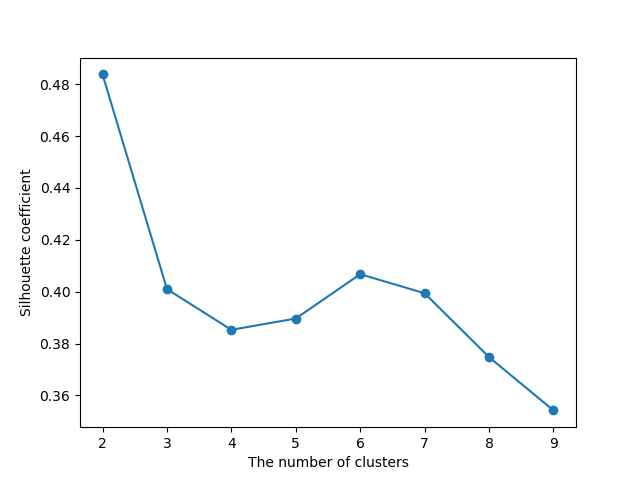
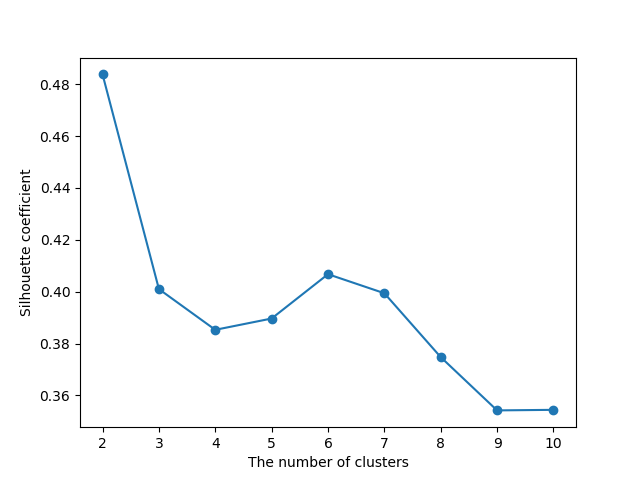
修改了一些bug并实现了计算SSE

diff --git a/cluster/kmeans.py b/cluster/kmeans.py
@@ -10,6 +10,8 @@ from sklearn.metrics import silhouette_score
 
 def compare_cluster_results(data, max_clusters=10, pca=False, n_components=0.9):
     if pca:
+        if n_components >= 1:
+            n_components = int(n_components)
         data = PCA(n_components=n_components).fit_transform(data)
 
     # 记录不同类数的轮廓系数结果
@@ -19,7 +21,7 @@ def compare_cluster_results(data, max_clusters=10, pca=False, n_components=0.9):
     model = KMeans(n_clusters=1, init='random', n_init=10).fit(data)
     x_label_SSE = [1]
     y_label_SSE = [model.inertia_]
-    for n_clusters in range(2, max_clusters):
+    for n_clusters in range(2, max_clusters + 1):
         model = KMeans(n_clusters=n_clusters, init='random', n_init=10).fit(data)
         # 计算轮廓系数
         silhouette_avg = silhouette_score(data, model.labels_, metric='euclidean')
@@ -42,10 +44,12 @@ def compare_cluster_results(data, max_clusters=10, pca=False, n_components=0.9):
 
 def get_cluster_result(data, n_clusters=2, pca=False, n_components=0.9):
     if pca:
+        if n_components >= 1:
+            n_components = int(n_components)
         data = PCA(n_components=n_components).fit_transform(data)
 
     model = KMeans(n_clusters=n_clusters, init='random', n_init=10).fit(data)
-    return model
+    return model, data
 
 
 def visualized(data, labels, c):
@@ -59,12 +63,42 @@ def visualized(data, labels, c):
     plt.show()
 
 
-def combine(a, b):
-    return str(a) + '-' + str(b)
+def data_analysis(df, labels, data, x, colors):
+    def combine(a, b):
+        return str(a) + '-' + str(b)
+
+    df['instr-class'] = list(map(lambda a, b: combine(a, b), df['instr'], df['class']))
+    plt.figure(figsize=(13, 4))
+    for i in range(3):
+        plt.plot(x, np.mean(np.array(data[labels == i]), axis=0),
+                 marker=".", c=colors[i], label='cluster{}'.format(i))
+
+    plt.xlabel("Question")
+    plt.ylabel("Average score")
+
+    plt.legend(loc='best')
+    plt.savefig(os.path.join('figs', 'average_score_in_different_clusters.png'))
+    plt.show()
+
+    for name in ['instr', 'instr-class']:
+        pd_instr = pd.DataFrame(
+            [[key] + [dict(df[labels == i][name].value_counts())[key] / value for i in range(3)] for key, value
+             in
+             dict(df[name].value_counts()).items()])
+        pd_instr.columns = [name, 'clsuter0', 'cluster1', 'cluster2']
+        pd_instr.to_csv(os.path.join('data', '{}_result.csv'.format(name)), index=False)
+
+
+# 计算SSE
+def sse(data, labels):
+    data = np.array(data, dtype=np.float64)
+    n_clusters = set(labels)
+    centers = np.array([np.mean(data[labels == i], axis=0) for i in n_clusters])
+    return sum([np.sum(np.square(np.linalg.norm(data[labels == i] - centers[i], axis=1)))
+                for i in n_clusters])
 
 
 def main():
-    colors = ['r', 'g', 'b']
     # 获取数据
     df = pd.read_csv(os.path.join('data', 'data.csv'))
     # 选择输入的字段：课程的难度difficulty以及28个问题Q1-Q28
@@ -72,30 +106,14 @@ def main():
     data = df[x]
     # compare_cluster_results(data, pca=True)
 
-    model = get_cluster_result(data, n_clusters=3, pca=True)
-    # visualized(data, model.labels_, c=colors)
+    model, data_for_cluster = get_cluster_result(data, n_clusters=3, pca=True)
+    silhouette_avg = silhouette_score(data_for_cluster, model.labels_, metric='euclidean')
+    print(silhouette_avg)
 
-    df['instr-class'] = list(map(lambda a, b: combine(a, b), df['instr'], df['class']))
-    plt.figure(figsize=(13, 4))
-    for i in range(3):
-        plt.plot(x, np.mean(np.array(data[model.labels_ == i]), axis=0),
-                 marker=".", c=colors[i], label='cluster{}'.format(i))
-
-    plt.xlabel("Question")
-    plt.ylabel("Average score")
-
-    plt.legend(loc='best')
-    # plt.savefig(os.path.join('figs', 'average_score_in_different_clusters.png'))
-    plt.show()
-
-    for name in ['instr', 'instr-class']:
-        pd_instr = pd.DataFrame(
-            [[key] + [dict(df[model.labels_ == i][name].value_counts())[key] / value for i in range(3)] for key, value
-             in
-             dict(df[name].value_counts()).items()])
-        pd_instr.columns = [name, 'clsuter0', 'cluster1', 'cluster2']
-        # pd_instr.to_csv(os.path.join('data', '{}_result.csv'.format(name)), index=False)
-
+    # colors = ['r', 'g', 'b']
+    # visualized(data_for_cluster, model.labels_, c=colors)
+    # data_analysis(df, model.labels_, data, x, colors)
+    print(sse(data_for_cluster, model.labels_))
 
 if __name__ == '__main__':
     main()

diff --git a/cluster/hierarchy.py b/cluster/hierarchy.py
@@ -10,12 +10,14 @@ from sklearn.metrics import silhouette_score
 
 def compare_cluster_results(data, max_clusters=10, pca=False, n_components=0.9):
     if pca:
+        if n_components >= 1:
+            n_components = int(n_components)
         data = PCA(n_components=n_components).fit_transform(data)
 
     # 记录不同类数的轮廓系数结果
     x_label_silhouette_score = []
     y_label_silhouette_score = []
-    for n_clusters in range(2, max_clusters):
+    for n_clusters in range(2, max_clusters + 1):
         model = AgglomerativeClustering(n_clusters=n_clusters, linkage='ward').fit(data)
         # 计算轮廓系数
         silhouette_avg = silhouette_score(data, model.labels_, metric='euclidean')
@@ -31,10 +33,12 @@ def compare_cluster_results(data, max_clusters=10, pca=False, n_components=0.9):
 
 def get_cluster_result(data, n_clusters=2, pca=False, n_components=0.9):
     if pca:
+        if n_components >= 1:
+            n_components = int(n_components)
         data = PCA(n_components=n_components).fit_transform(data)
 
     model = AgglomerativeClustering(n_clusters=n_clusters, linkage='ward').fit(data)
-    return model
+    return model, data
 
 
 def visualized(data, labels, c):
@@ -53,10 +57,12 @@ def main():
     df = pd.read_csv(os.path.join('data', 'data.csv'))
     # 选择输入的字段：课程的难度difficulty以及28个问题Q1-Q28
     data = df[['difficulty'] + ['Q' + str(i) for i in range(1, 29)]]
-    compare_cluster_results(data, pca=True)
+    # compare_cluster_results(data, pca=True)
 
-    model = get_cluster_result(data, n_clusters=2, pca=True)
-    # visualized(data, model.labels_, c=['r', 'b'])
+    model, data_for_cluster = get_cluster_result(data, n_clusters=2, pca=True)
+    silhouette_avg = silhouette_score(data_for_cluster, model.labels_, metric='euclidean')
+    print(silhouette_avg)
+    # visualized(data_for_cluster, model.labels_, c=['r', 'b'])
 
 
 if __name__ == '__main__':
